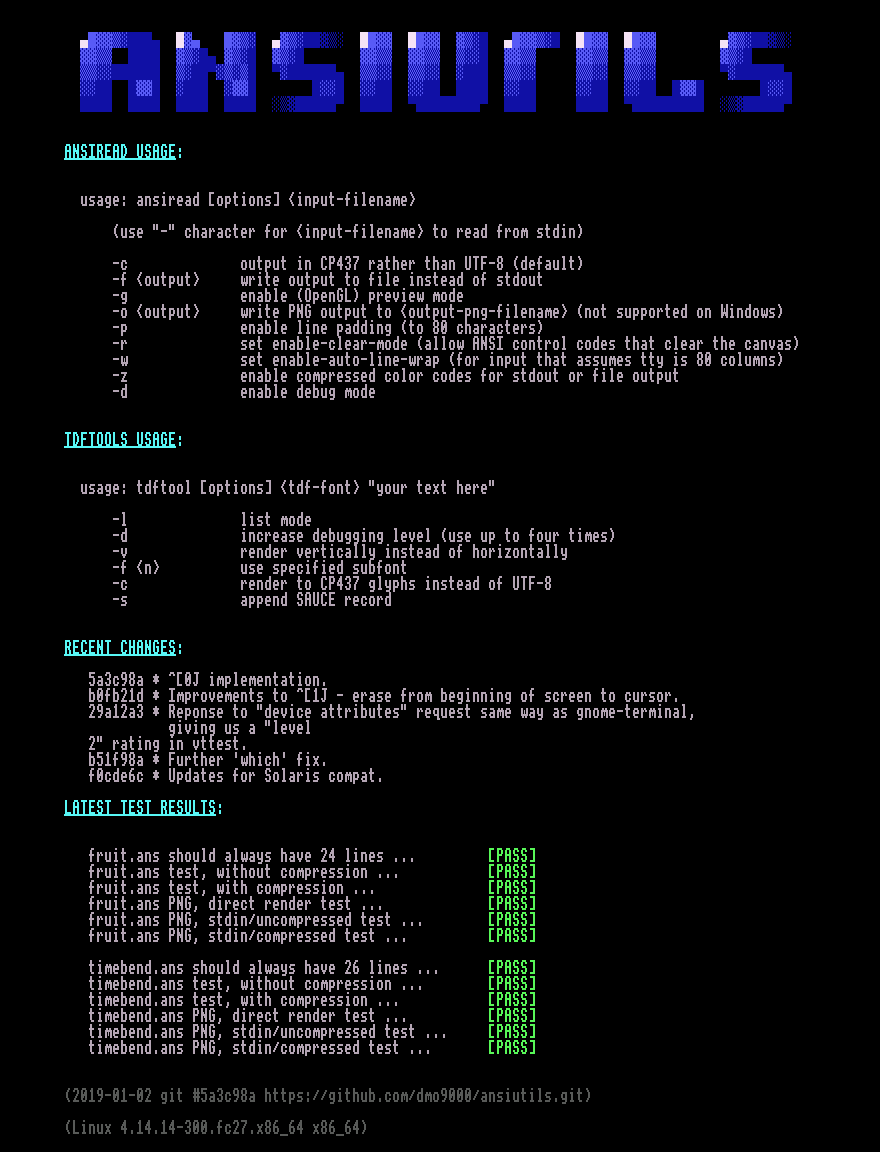
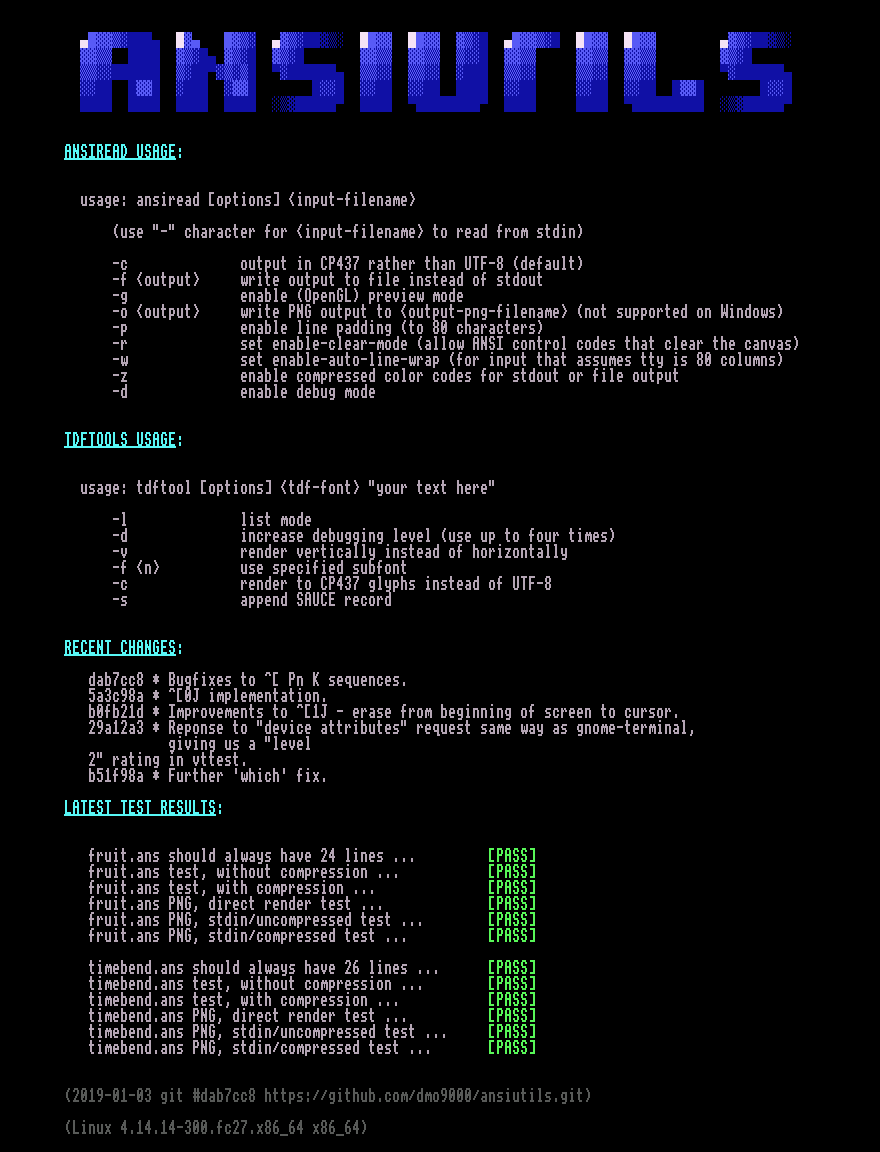
Rationalization of ^[ Pn K sequences. Debugging cleanup for ^ [ Pn ; Pn H sequences

Changed region(s): [[0.092, 0.5625, 0.767, 0.6875], [0.2455, 0.9375, 0.2761, 0.9688]]

diff --git a/ansistate.c b/ansistate.c
@@ -580,32 +580,6 @@ bool ansi_to_canvas(ANSICanvas *canvas, unsigned char *buf, size_t nbytes, size_
                 break;
             }
 
-            if (c == 'K') {
-                fprintf(stderr, "+++ legacy 'K' handler - please rationalize!\n");
-                ansi_debug_dump();
-                assert(NULL);
-            }
-
-            /*
-            if (c == 'K') {
-            assert(!paramidx);
-            // means clear to end of current line - not implemented
-            r = canvas_get_raster(canvas, current_y);
-            assert(r);
-            // printf("+++ clearing line %u from %u to %u\n", current_y, current_x, r->bytes);
-            for (ii = 0; ii <= 79; ii++) {
-            r->chardata[ii] = ' ';
-            r->bgcolors[ii] = 0;
-            r->fgcolors[ii] = 7;
-            r->attribs[ii] = ATTRIB_NONE;
-            }
-            //canvas->repaint_entire_canvas = true;
-            canvas->is_dirty = true;
-            clear_ansi_flags(FLAG_ALL);
-            break;
-            }
-            */
-
             if (c == 'L') {
                 /* TODO: move the code below to a canvas_insert_raster() function */
                 /* insert a line */
@@ -703,8 +677,9 @@ bool ansi_to_canvas(ANSICanvas *canvas, unsigned char *buf, size_t nbytes, size_
                 ansi_seqbuf[ansi_offset] = c;
                 ansi_offset++;
                 printf("error: expecting digit, got '%c' (0x%02x), %u parameter, paramval = %u\n", c, c, paramidx, paramval);
-                ansi_debug_dump();
-                assert(NULL);
+								dispatch_ansi_command(canvas, c);
+                //ansi_debug_dump();
+                //assert(NULL);
             }
             break;
         case (FLAG_1B | FLAG_5B | FLAG_INT):
@@ -1223,9 +1198,9 @@ void dispatch_ansi_command(ANSICanvas *canvas, unsigned char c)
     /* direct cursor addressing  - same as 'H' */
     case 'H':
         /* set cursor home - move the cursor to the specified position */
-        //    if (debug_flag) {
+            if (debug_flag) {
         fprintf(stderr, "+++ SET CURSOR HOME(%u, %u)\n", parameters[1], parameters[0]);
-        //   }
+           }
 
         if (debug_flag) {
             fprintf(stderr, "1) set_cursor_home(%u,%u)\n", current_x, current_y);
@@ -1391,7 +1366,7 @@ void dispatch_ansi_command(ANSICanvas *canvas, unsigned char c)
 
         if (!paramidx) {
             fprintf(stderr, "+++ 'K' command -- erase from cursor to end of line\n");
-            ansi_debug_dump();
+         //   ansi_debug_dump();
         }
 
         switch (parameters[0]) {
@@ -1426,10 +1401,11 @@ void dispatch_ansi_command(ANSICanvas *canvas, unsigned char c)
             r = canvas_get_raster(canvas, current_y);
             assert(r);
             for (ii = 0; ii < r->bytes; ii++) {
-                r->chardata[ii] = 'Z';
-                r->bgcolors[ii] = 0;
-                r->fgcolors[ii] = 7;
-                r->attribs[ii] = ATTRIB_NONE;
+                r->chardata[ii] = ' ';
+                /* not clear whether attributes/colors should be affected */
+//                r->bgcolors[ii] = 0;
+//                r->fgcolors[ii] = 7;
+//                r->attribs[ii] = ATTRIB_NONE;
             }
             canvas->repaint_entire_canvas = true;
             break;
